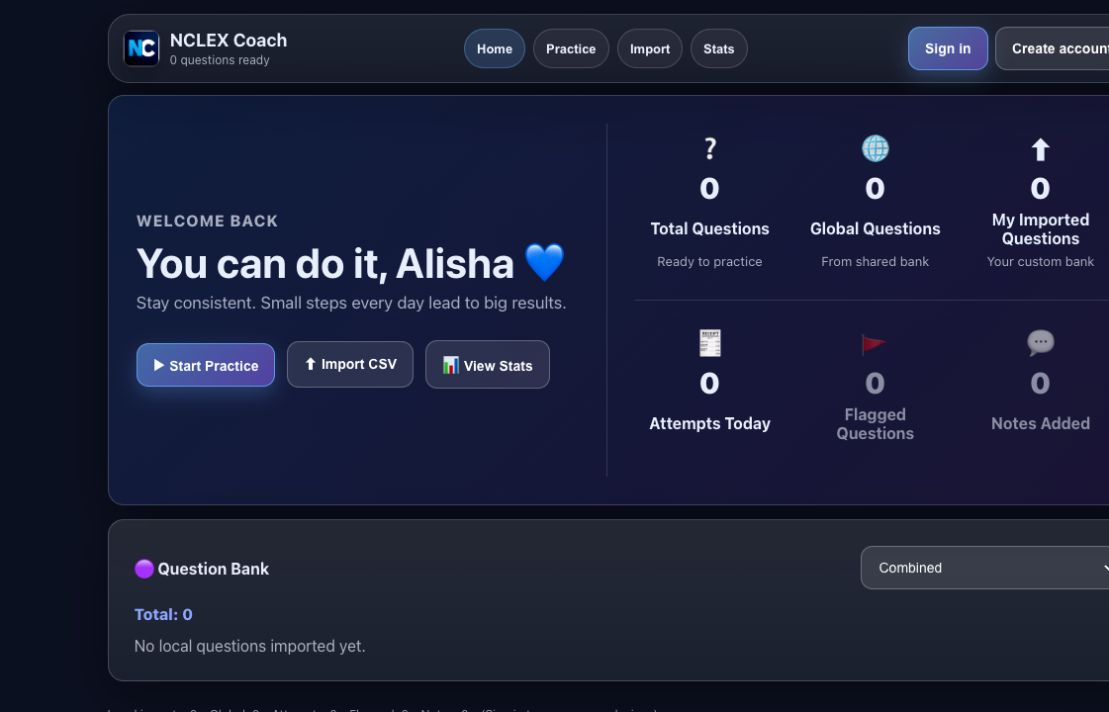
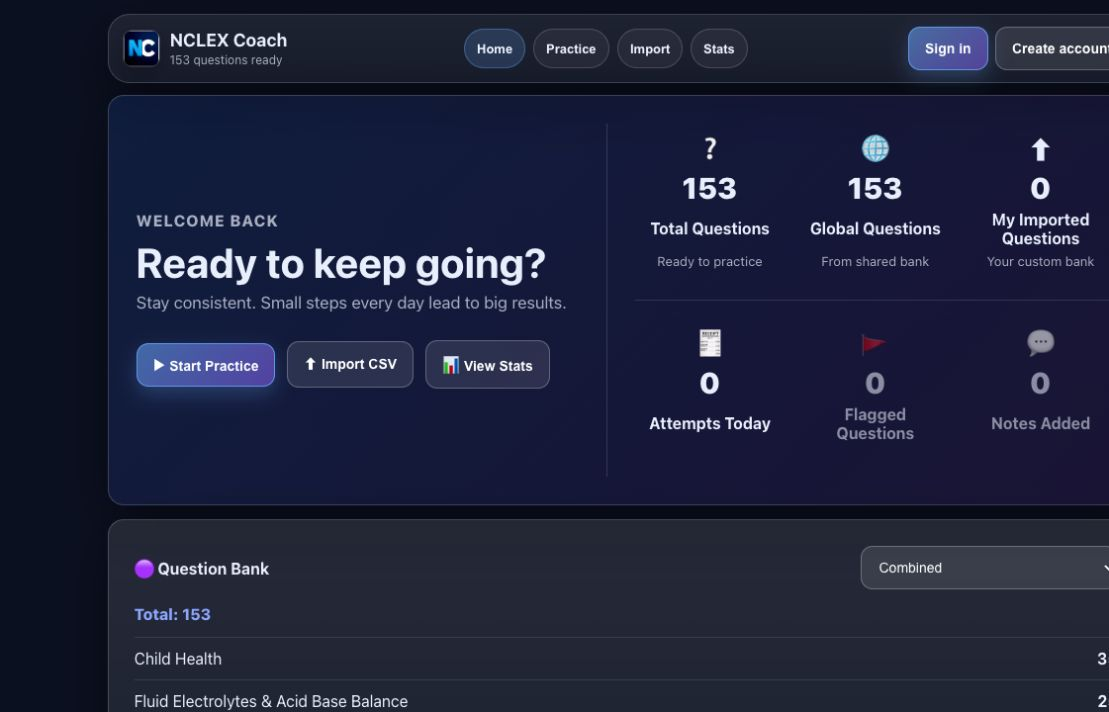
Update NCLEX portfolio to latest public version

diff --git a/src/App.jsx b/src/App.jsx
@@ -96,7 +96,7 @@ function App() {
               <div className="project-details">
                 <span className="project-index">02 / Product</span>
                 <h3>NCLEX Personal Coach</h3>
-                <p>A focused study workspace bringing question banks, CSV imports, practice sessions, notes, flagged questions, progress statistics, and account sync into one place.</p>
+                <p>A focused study workspace bringing a categorized shared question bank, CSV imports, practice sessions, notes, flagged questions, progress statistics, and account sync into one place.</p>
                 <div className="project-tags"><span>Product design</span><span>Learning platform</span><span>Data dashboard</span></div>
               </div>
             </article>
